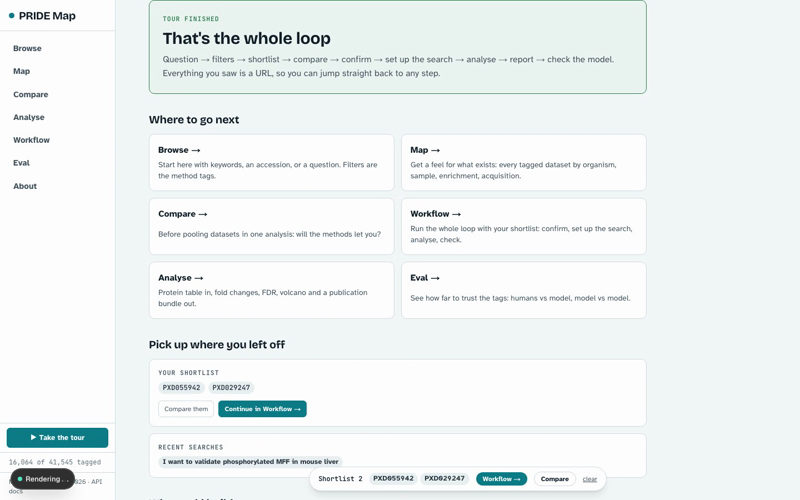
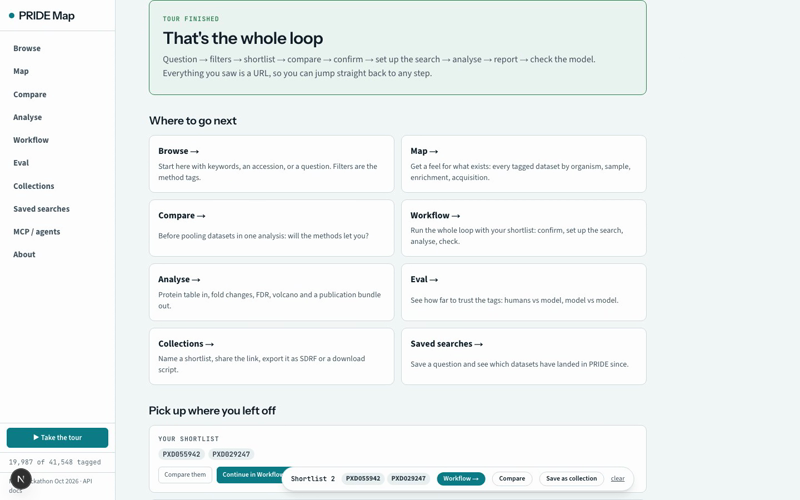
tour: Next label on cross-page steps; finish page links MCP

diff --git a/web/components/tour-done.tsx b/web/components/tour-done.tsx
@@ -11,6 +11,7 @@ const PLACES = [
   { href: "/flow", title: "Workflow", when: "Run the whole loop with your shortlist: confirm, set up the search, analyse, check." },
   { href: "/analyse", title: "Analyse", when: "Protein table in, fold changes, FDR, volcano and a publication bundle out." },
   { href: "/eval", title: "Eval", when: "See how far to trust the tags: humans vs model, model vs model." },
+  { href: "/mcp", title: "MCP / agents", when: "Plug all of this into Claude Desktop, Claude Code or your own agent, and watch one use it." },
   { href: "/collections", title: "Collections", when: "Name a shortlist, share the link, export it as SDRF or a download script." },
   { href: "/saved", title: "Saved searches", when: "Save a question and see which datasets have landed in PRIDE since." },
 ];

diff --git a/web/components/tour.tsx b/web/components/tour.tsx
@@ -133,7 +133,7 @@ export function Tour() {
       },
       steps: steps.map((s) => ({
         element: s.el,
-        popover: { title: s.title, description: s.text, side: s.side ?? "bottom", align: "start", progressText: `${s.i + 1} of ${STEPS.length}` },
+        popover: { title: s.title, description: s.text, side: s.side ?? "bottom", align: "start", progressText: `${s.i + 1} of ${STEPS.length}`, doneBtnText: s.next ? "Next →" : "Finish" },
       })),
     });
     drv.current = d;
